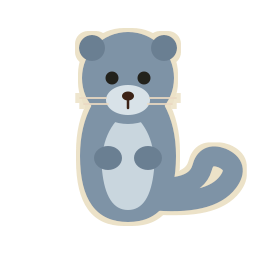
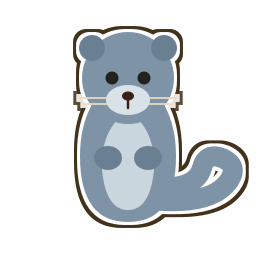
feat: 米宝加深木色描边，提升在彩色板块上的分离度

Changed region(s): [[0.2812, 0.0938, 1.0, 0.9062], [0.7812, 0.6562, 0.875, 0.75]]

diff --git a/tools/gen_meeples.js b/tools/gen_meeples.js
@@ -9,12 +9,16 @@ const path = require("path");
 const OUT = path.resolve("web/assets");
 const S = 256;
 
-// Thin cream plywood rim via dilation of the alpha channel -> clean outer outline only.
-const RIM = `<filter id="rim" x="-25%" y="-25%" width="150%" height="150%">
-  <feMorphology in="SourceAlpha" operator="dilate" radius="4" result="d"/>
-  <feFlood flood-color="#ECE2C8" result="c"/>
-  <feComposite in="c" in2="d" operator="in" result="r"/>
-  <feMerge><feMergeNode in="r"/><feMergeNode in="SourceGraphic"/></feMerge>
+// Visible dark-wood outline via two dilations of the alpha channel: the ring
+// between outer(6) and inner(3) is flooded with a warm dark brown, giving a clean
+// ~3px cut-edge outline that separates the meeple from any tile background.
+const RIM = `<filter id="rim" x="-30%" y="-30%" width="160%" height="160%">
+  <feMorphology in="SourceAlpha" operator="dilate" radius="6" result="outer"/>
+  <feMorphology in="SourceAlpha" operator="dilate" radius="3" result="inner"/>
+  <feFlood flood-color="#43331E" result="dk"/>
+  <feComposite in="dk" in2="outer" operator="in" result="o1"/>
+  <feComposite in="o1" in2="inner" operator="out" result="ring"/>
+  <feMerge><feMergeNode in="ring"/><feMergeNode in="SourceGraphic"/></feMerge>
 </filter>`;
 
 function svg(inner) {
